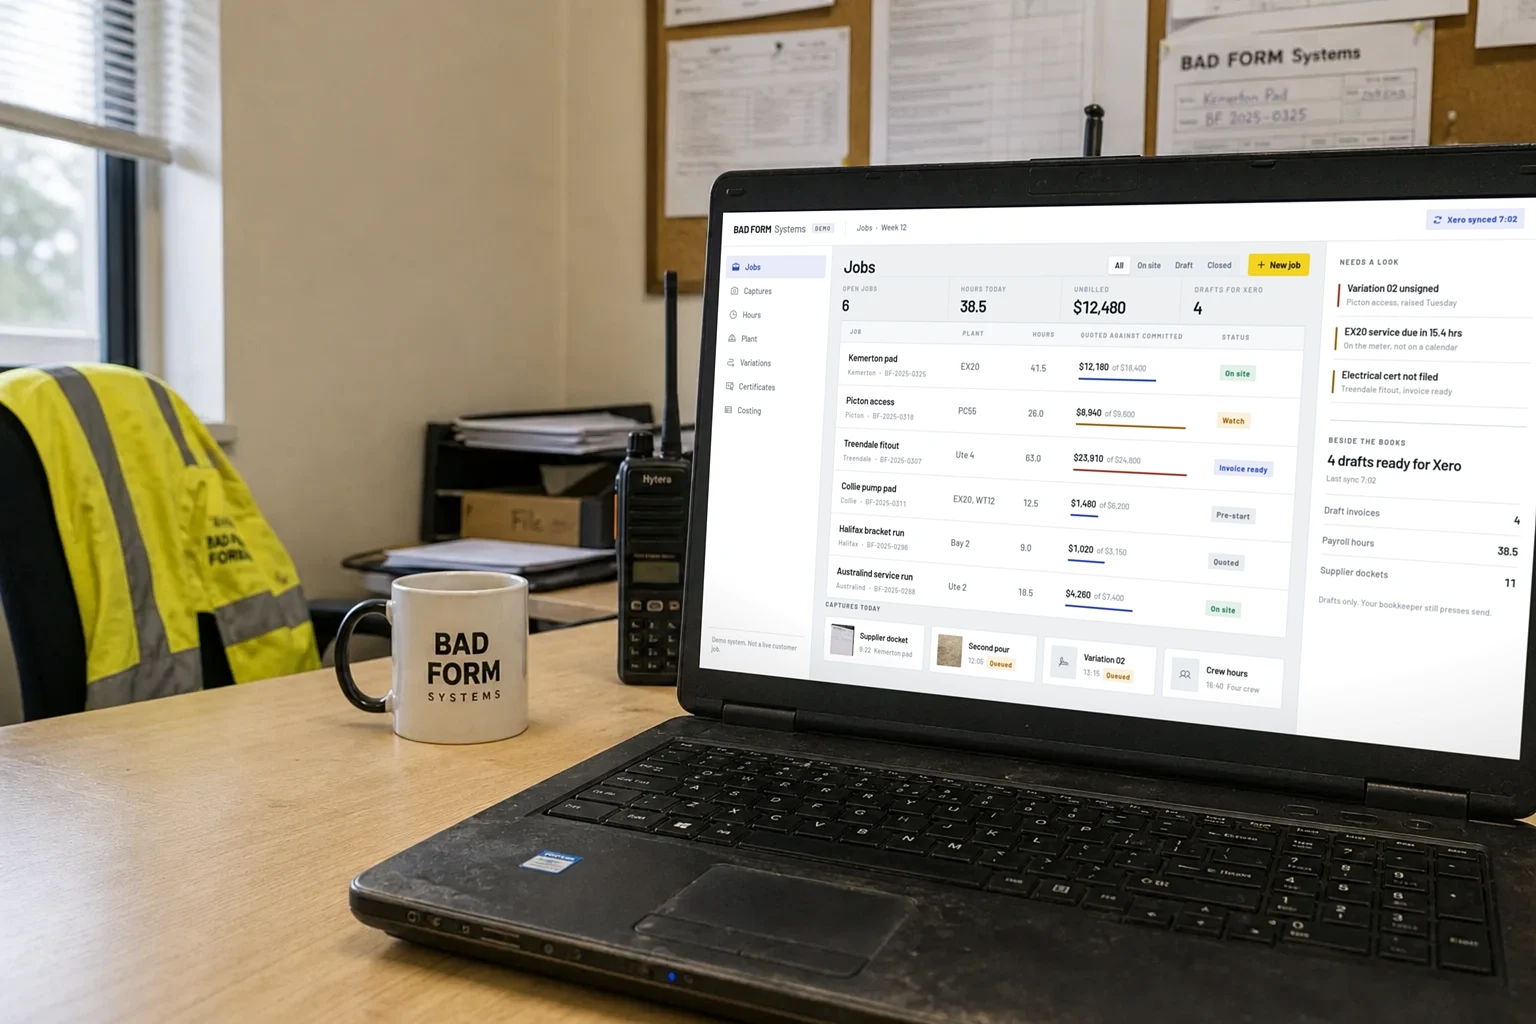
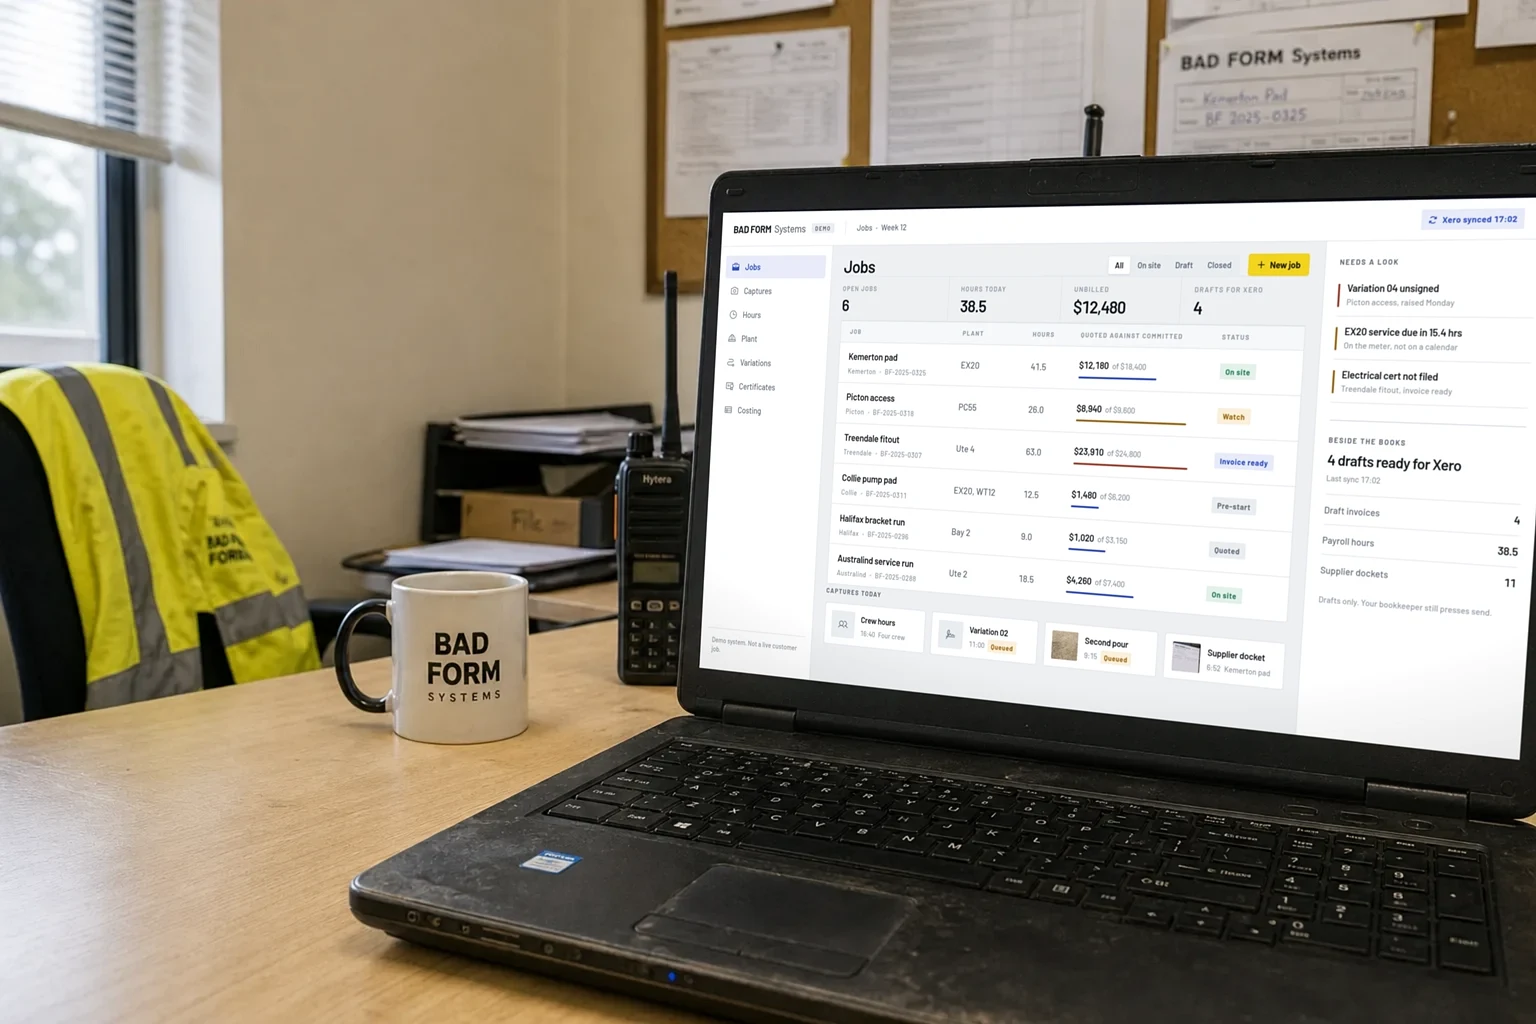
Make the two demo screens agree on one day
The board was clipping its captures strip because six job rows plus the
summary did not fit 810px. Row padding comes down so everything lands
inside the screen.

The phone clock said 6:52 while the feed listed captures up to 16:40, and
the feed was in no order at all. Both screens now sit at 17:04 on the same
Tuesday, newest first, with times that match the timeline the homepage
copy sends the reader to. The Picton variation is renumbered so it stops
colliding with the signed one on the phone.

Hero copy moves onto the page's own left margin, and the still's inner
edges dissolve so it stops reading as a rectangle on the paper.

diff --git a/src/content/ims.ts b/src/content/ims.ts
@@ -60,7 +60,10 @@ export const imsCopy = {
   brandArm: "Systems",
 
   field: {
-    statusTime: "6:52",
+    /* Both screens show the same demo day, late afternoon: the phone still
+       clocked on, the board already synced. Times have to agree across the two
+       or the pair stops reading as one system. */
+    statusTime: "17:04",
     jobNo: "BF-2025-0325",
     jobTitle: "Kemerton pad",
     jobMeta: "Kemerton",
@@ -80,49 +83,53 @@ export const imsCopy = {
       { id: "variation", label: "Raise variation" },
     ],
     metrics: [
-      { label: "Today", value: "7.0", unit: "hrs" },
+      { label: "Today", value: "9.5", unit: "hrs" },
       { label: "Job to date", value: "41.5", unit: "hrs" },
       { label: "EX20 meter", value: "1,284.6", unit: "hrs" },
     ] satisfies ImsMetric[],
     feedHeading: "Captured today",
+    /* Newest first, and the times match the Tuesday timeline on the homepage,
+       because the copy sends the reader from one to the other. Four rows fit the
+       screen; the pre-start sits below the fold on purpose, so the feed reads as
+       a list that carries on. */
     feed: [
       {
-        id: "docket",
-        label: "Supplier docket",
-        meta: "Bunbury counter",
-        time: "9:22",
+        id: "hours",
+        label: "Crew hours, four on the pad",
+        meta: "Split across two pours",
+        time: "16:40",
         sync: "synced",
-        thumb: docketThumb,
-      },
-      {
-        id: "site",
-        label: "Second pour, edge",
-        meta: "4 photos",
-        time: "12:05",
-        sync: "queued",
-        thumb: siteThumb,
+        glyph: "hours",
       },
       {
         id: "variation",
         label: "Variation 02, signed",
         meta: "D. Brown on site",
-        time: "13:15",
+        time: "11:00",
         sync: "queued",
         glyph: "signature",
       },
       {
-        id: "hours",
-        label: "Crew hours, four on the pad",
-        meta: "Split across two pours",
-        time: "11:30",
+        id: "site",
+        label: "Second pour, edge",
+        meta: "4 photos",
+        time: "9:15",
+        sync: "queued",
+        thumb: siteThumb,
+      },
+      {
+        id: "docket",
+        label: "Supplier docket",
+        meta: "Bunbury counter",
+        time: "6:52",
         sync: "synced",
-        glyph: "hours",
+        thumb: docketThumb,
       },
       {
         id: "prestart",
         label: "Pre-start, EX20",
         meta: "Ten checks, all clear",
-        time: "6:48",
+        time: "6:45",
         sync: "synced",
         glyph: "prestart",
       },
@@ -139,7 +146,7 @@ export const imsCopy = {
   desk: {
     breadcrumb: "Jobs",
     week: "Week 12",
-    topSync: "Xero synced 7:02",
+    topSync: "Xero synced 17:02",
     heading: "Jobs",
     newJob: "New job",
     filters: ["All", "On site", "Draft", "Closed"] as const,
@@ -228,30 +235,6 @@ export const imsCopy = {
     capturesHeading: "Captures today",
     captures: [
       {
-        id: "docket",
-        label: "Supplier docket",
-        meta: "Kemerton pad",
-        time: "9:22",
-        sync: "synced",
-        thumb: docketThumb,
-      },
-      {
-        id: "site",
-        label: "Second pour",
-        meta: "Kemerton pad",
-        time: "12:05",
-        sync: "queued",
-        thumb: siteThumb,
-      },
-      {
-        id: "variation",
-        label: "Variation 02",
-        meta: "Signed on site",
-        time: "13:15",
-        sync: "queued",
-        glyph: "signature",
-      },
-      {
         id: "hours",
         label: "Crew hours",
         meta: "Four crew",
@@ -259,12 +242,36 @@ export const imsCopy = {
         sync: "synced",
         glyph: "hours",
       },
+      {
+        id: "variation",
+        label: "Variation 02",
+        meta: "Signed on site",
+        time: "11:00",
+        sync: "queued",
+        glyph: "signature",
+      },
+      {
+        id: "site",
+        label: "Second pour",
+        meta: "Kemerton pad",
+        time: "9:15",
+        sync: "queued",
+        thumb: siteThumb,
+      },
+      {
+        id: "docket",
+        label: "Supplier docket",
+        meta: "Kemerton pad",
+        time: "6:52",
+        sync: "synced",
+        thumb: docketThumb,
+      },
     ] satisfies ImsCaptureRow[],
     attentionHeading: "Needs a look",
     attention: [
       {
-        title: "Variation 02 unsigned",
-        meta: "Picton access, raised Tuesday",
+        title: "Variation 04 unsigned",
+        meta: "Picton access, raised Monday",
         severity: "hold",
       },
       {
@@ -281,7 +288,7 @@ export const imsCopy = {
     books: {
       heading: "Beside the books",
       lead: "4 drafts ready for Xero",
-      sync: "Last sync 7:02",
+      sync: "Last sync 17:02",
       stats: [
         { label: "Draft invoices", value: "4" },
         { label: "Payroll hours", value: "38.5" },

diff --git a/src/components/overview/ProductBand.tsx b/src/components/overview/ProductBand.tsx
@@ -37,28 +37,38 @@ export function ProductBand() {
       <StillFrame still={cabStill} />
 
       <div className="mx-auto max-w-6xl px-4 py-12 sm:px-6 md:py-16 lg:px-8">
-        <h2
-          id="product-heading"
-          className="type-hero max-w-[16ch] text-[1.6rem] text-brand-sheet md:text-[2rem]"
-        >
-          {heading}
-        </h2>
-        <p className="type-body mt-4 max-w-[54ch] text-brand-sheet/70">{lead}</p>
-
-        <div className="mt-10 flex flex-col gap-10 lg:mt-14 lg:flex-row lg:items-center lg:gap-16">
-          <LiveScreen device="phone" paint="dusk" className="shrink-0" />
-          <CaptionRail caption={field} className="lg:pt-4" />
+        {/* Reversed at lg so the phone sits under the photographed phone above it
+            while the heading still reads first on a narrow screen. */}
+        <div className="flex flex-col gap-10 lg:flex-row-reverse lg:items-center lg:gap-16">
+          <div className="lg:flex-1">
+            <h2
+              id="product-heading"
+              className="type-hero max-w-[16ch] text-[1.6rem] text-brand-sheet md:text-[2rem]"
+            >
+              {heading}
+            </h2>
+            <p className="type-body mt-4 max-w-[54ch] text-brand-sheet/70">{lead}</p>
+            <CaptionRail
+              caption={field}
+              className="mt-10 border-t border-brand-sheet/15 pt-8 lg:mt-12 lg:pt-10"
+            />
+          </div>
+          <LiveScreen
+            device="phone"
+            paint="dusk"
+            className="shrink-0 ring-1 ring-brand-sheet/15"
+          />
         </div>
       </div>
 
-      <div className="mx-auto max-w-6xl px-4 pb-12 sm:px-6 md:pb-16 lg:px-8">
+      {/* The board is wider than the text column at every size it renders, so the
+          rail above it shares the board's own box rather than the page container.
+          Below lg the board is too dense to shrink, and the photograph carries it. */}
+      <div className="mx-auto max-w-6xl px-4 pb-12 sm:px-6 md:pb-16 lg:w-fit lg:max-w-none lg:px-6 xl:pb-16 2xl:px-8">
         <CaptionRail caption={desk} />
-      </div>
-
-      {/* The board carries too much detail to shrink below a laptop column. Under lg
-          the photograph above is the board, and the caption rail carries the argument. */}
-      <div className="hidden justify-center px-4 pb-12 lg:flex lg:px-6 xl:pb-16 2xl:px-8">
-        <LiveScreen device="desk" paint="day" />
+        <div className="mt-8 hidden lg:block lg:mt-10">
+          <LiveScreen device="desk" paint="day" className="ring-1 ring-brand-sheet/15" />
+        </div>
       </div>
 
       <StillFrame still={officeStill} />

diff --git a/src/components/overview/HeroOpen.tsx b/src/components/overview/HeroOpen.tsx
@@ -6,7 +6,10 @@ export function HeroOpen() {
 
   return (
     <section className="bg-brand-black lg:grid lg:grid-cols-2 lg:items-center">
-      <div className="px-4 pt-8 pb-10 sm:px-6 lg:justify-self-end lg:py-16 lg:pr-10 lg:pl-8">
+      {/* The copy sits in a half viewport grid cell, so its left padding has to
+          reproduce the centred page container's left margin by hand. Otherwise
+          the headline hangs off the line every heading below it sits on. */}
+      <div className="px-4 pt-8 pb-10 sm:px-6 lg:py-16 lg:pr-10 lg:pl-[max(2rem,calc((100vw-72rem)/2+2rem))]">
         <div className="lg:max-w-[30rem]">
           <h1 className="type-hero mb-5 max-w-[15ch] text-[2.1rem] font-bold text-brand-ink sm:text-[2.6rem] xl:text-[3.25rem]">
             {headline}
@@ -33,7 +36,7 @@ export function HeroOpen() {
           alt={still.alt}
           width={still.width}
           height={still.height}
-          className={`absolute inset-0 h-full w-full object-cover ${still.objectPositionClass}`}
+          className={`still-dissolve absolute inset-0 h-full w-full object-cover ${still.objectPositionClass}`}
         />
         <figcaption className="sr-only">{still.demoNote}</figcaption>
       </figure>

diff --git a/src/app/globals.css b/src/app/globals.css
@@ -200,6 +200,25 @@ select {
   }
 }
 
+/*
+ * A photograph whose left and bottom edges land inside the cream page instead
+ * of at a viewport edge. Without this the plate reads as a rectangle pasted on
+ * the paper, because the out of focus ground in these stills is almost the same
+ * tone as the page. Only needed from lg up, where the still stops being
+ * full width.
+ */
+@media (min-width: 1024px) {
+  .still-dissolve {
+    -webkit-mask-image: linear-gradient(to right, transparent, black 20%),
+      linear-gradient(to top, transparent, black 14%);
+    -webkit-mask-composite: source-in;
+    mask-image: linear-gradient(to right, transparent, black 20%),
+      linear-gradient(to top, transparent, black 14%);
+    mask-composite: intersect;
+    mask-repeat: no-repeat;
+  }
+}
+
 input[type="range"] {
   -webkit-appearance: none;
   appearance: none;

diff --git a/src/styles/ims.css b/src/styles/ims.css
@@ -728,7 +728,9 @@
 }
 
 .ims-table td {
-  padding: 12px 18px;
+  /* Row height is load bearing: six jobs, the summary, and the captures strip
+     all have to fit inside the 810px board without a clipped last row. */
+  padding: 10px 18px;
   font-size: 15px;
   font-weight: 500;
   border-bottom: 1px solid var(--ims-hairline);
@@ -863,7 +865,7 @@
   display: grid;
   place-items: center;
   width: 46px;
-  height: 52px;
+  height: 46px;
   overflow: hidden;
   border-radius: var(--ims-r-sm);
   background: var(--ims-chip);
